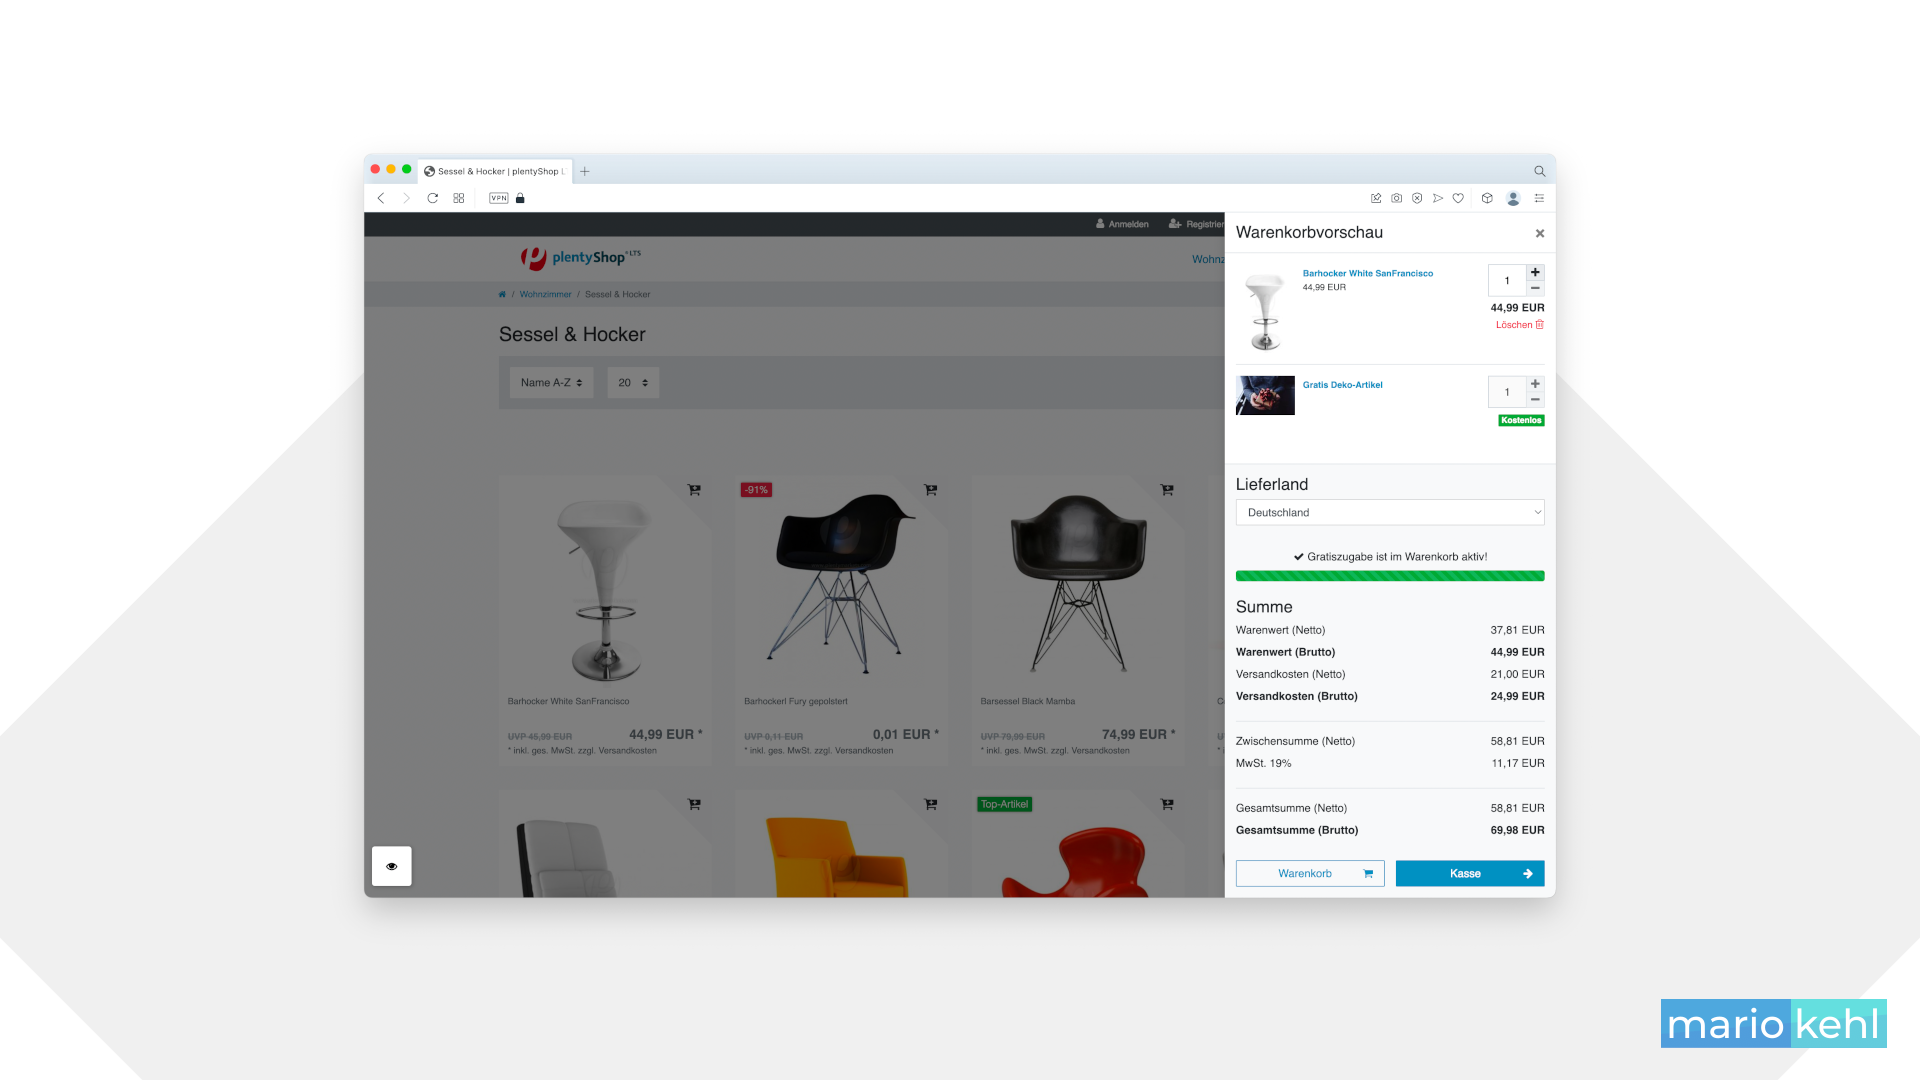
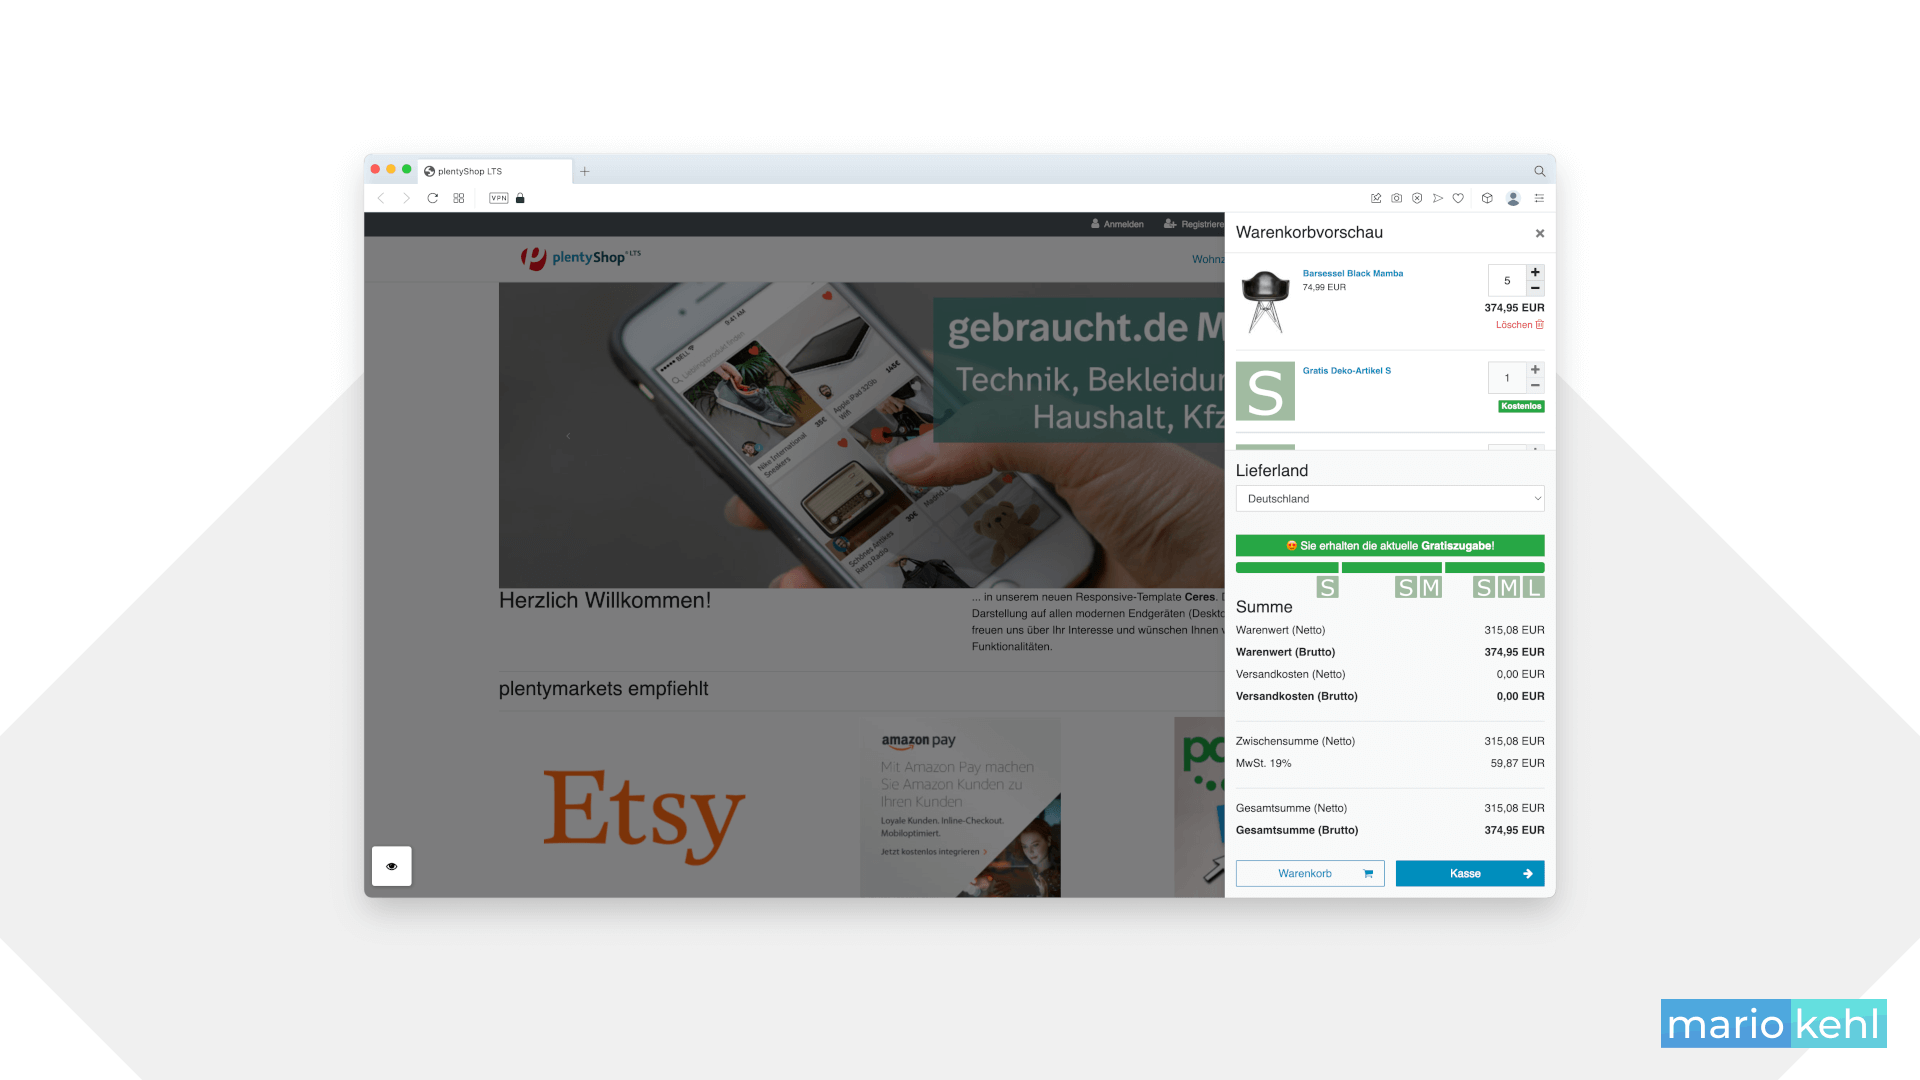
Bump version

diff --git a/meta/documents/user_guide_de.md b/meta/documents/user_guide_de.md
@@ -2,6 +2,17 @@
 
 Mit diesem Plugin ermöglichst du es deinen Kund:innen, ab einem bestimmten Warenkorbwert eine Gratiszugabe zu erhalten, die automatisch in den Warenkorb gelegt und auch dort angezeigt wird. Die Gratiszugabe kann als Variante angelegt und ab einem Warenkorbwert (Brutto) zugewiesen werden.
 
+## Features
+
+<i aria-hidden="true" class="fa fa-fw fa-check-square text-success"></i> Einfache Einrichtung<br>
+<i aria-hidden="true" class="fa fa-fw fa-check-square text-success"></i> Darstellung von Gratiszugaben in Warenkorb(-vorschau) und Kasse<br>
+<i aria-hidden="true" class="fa fa-fw fa-check-square text-success"></i> Auch mehrere Gratiszugaben in Abhängigkeit zu einer Preisstaffelung sind möglich<br>
+<i aria-hidden="true" class="fa fa-fw fa-check-square text-success"></i> Visualisierung des Fehlbetrags bis zum Erreichen der nächsten Gratiszugabe<br>
+<i aria-hidden="true" class="fa fa-fw fa-check-square text-success"></i> Individuelle und lokalisierbare Texte für Fehlbetrag und Erfolg<br>
+<i aria-hidden="true" class="fa fa-fw fa-check-square text-success"></i> Aussehen der Fortschrittsanzeige kann angepasst werden<br> 
+<i aria-hidden="true" class="fa fa-fw fa-check-square text-success"></i> Gutscheine werden in der Berechnung berücksichtigt<br>
+<i aria-hidden="true" class="fa fa-fw fa-check-square text-success"></i> Anzeige für Lieferländer ohne Gratiszugaben ausblenden
+
 ## Installationsanleitung
 
 Für die Anzeige der Gratiszugabe musst du die entsprechenden Werte in der Plugin-Konfiguration hinterlegen.
@@ -29,14 +40,60 @@ Danach die Container-Verknüpfungen anlegen, so dass die Gratiszugabe auch im Fr
 4. Verknüpfe den Inhalt **Display Progress Bar to reach Goodie** mit dem Container **Ceres::BasketPreview.BeforeBasketTotals** zur Anzeige in der Warenkorbvorschau (_Shopping cart preview: Before basket totals_)
 5. Verknüpfe den Inhalt **Display Progress Bar to reach Goodie** mit dem Container **Ceres::Checkout.BeforeBasketTotals** zur Anzeige in der Kasse (_Checkout: Before basket totals_)
 
+### Staffelung / Mehrere Gratiszugaben
+
+Ab sofort ist auch eine Staffelung nach Preisen und entsprechenden Gratiszugaben möglich. Nachstehend mal als einfaches Beispiel:
+ 
+    50 Euro   = Produkt A
+    100 Euro  = Produkt A + Produkt B
+    200 Euro  = Produkt A + Produkt B + Produkt C
+
+Hinterlege dazu in der Plugin-Konfiguration die entsprechenden Warenwerte und Varianten-IDs in den optionalen Bereichen **Staffel 1** und **Staffel 2**. Wenn du nur zwei Staffeln anbieten möchtest, so kannst du einfach die Eingabefelder für **Staffel 2** leer lassen. Eine Beispiel-Konfiguration für die maximale Ausprägung findest du in den Vorschaubildern des Plugins.
+
+<div class="alert alert-info" role="alert">
+    Vergiss nicht, die Filter deiner Ereignisaktion zum Hinzufügen der Gratiszugabe(n) ebenfalls auf die gewünschten Werte anzupassen!
+</div>
+
+### Lieferländer ohne Gratiszugaben ausschließen
+
+Bietest du in einem oder mehreren Lieferländern keine Gratiszugaben an, kannst du diese über die Plugin-Konfiguration ausschließen und somit die Ausgabe verhindern.
+
+Öffne dazu die Plugin-Konfiguration und trage im Bereich **Allgemein** im Feld **Ausgenommene Lieferländer** eine kommaseparierte Liste von verbotenen Lieferländern ein, z.B. _3,12_ für Belgien und United Kingdom.
+
+    1=Deutschland
+    2=Österreich
+    ...
+    
+Eine vollständige Liste aller Lieferland-IDs findest du unter **Einrichtung » Aufträge » Versand » Optionen** im Tab **Lieferländer**.
+
+<div class="alert alert-info" role="alert">
+    Vergiss nicht, die Filter deiner Ereignisaktion zum Hinzufügen der Gratiszugabe(n) ebenfalls auf die gewünschten Werte anzupassen!
+</div>
+
 ### Individualisierung
 
-| Einstellung                        | Beschreibung |
+Im Menü **CMS » Mehrsprachigkeit** kannst du die Texte unterhalb der Fortschrittsanzeige anpassen. **Speichere** nach der Anpassung und vergiss nicht auf **Veröffentlichen** zu drücken.
+
+| Schlüssel                          | Beschreibung  |
 |------------------------------------|---------------|
-| Nachricht Nichterreichen Warenwert | Text bei Nichterreichen des Warenkorbwert, folgende Platzhalter stehen zur Verfügung: `:amount` für den fehlenden Betrag und `:currency` für die Währung. |
-| Nachricht Warenwert erreicht       | Text bei Erreichen des Warenkorbwert, d.h. sobald die Gratiszugabe hinzugefügt ist |
+| MessageMissing | Text bei Nichterreichen des Warenkorbwerts, folgende Platzhalter stehen zur Verfügung: `:amount` für den fehlenden Betrag und `:currency` für die Währung. |
+| MessageGoal | Text bei Erreichen des Warenkorbwerts, d.h. sobald die Gratiszugabe hinzugefügt ist |
+| MessageInterim | Text bis zum Erreichen der nächsten Gratiszugabe(n), nur relevant bei Staffelungen |
+| MessageAdditional | Text-Platzhalter zur Erklärung deiner Sonderaktion oder Bedingungen für die Gratiszugabe |
 
 Tabelle 1: Konfigurationsoptionen Individualisierung
+
+Das Aussehen der Fortschrittsanzeige lässt sich im Bereich **Individualisierung** in der **Plugin-Konfiguration** anpassen.
+
+| Einstellung                        | Beschreibung  |
+|------------------------------------|---------------|
+| CSS-Klasse für Fehlbetrag | Diese Bootstrap-Klasse erhält deine Fortschrittsanzeige und der Text als Hintergrundfarbe, solange die Gratiszugabe noch nicht hinzugefügt wurde.<br>Wähle Eigene um dies mit deinem Theme zu überschreiben. |
+| CSS-Klasse für Erfolg | Diese Bootstrap-Klasse erhält deine Fortschrittsanzeige und der Text als Hintergrundfarbe, sobald die Gratiszugabe hinzugefügt wurde.<br>Wähle Eigene um dies mit deinem Theme zu überschreiben. |
+| Textabstand vergrößern | Erlaubt den Abstand von Text zu Fortschrittsanzeige anzuheben. |
+| Fortschrittsanzeige gestreift | Fügt der Fortschrittsanzeige die Bootstrap-Klasse .progress-bar-striped hinzu. |
+| Vorschaubilder unter der Fortschrittsanzeige | Sollen Thumbnails der Gratiszugabe(n) als zusätzliche Information dargestellt werden? |
+
+Tabelle 2: Plugin-Konfiguration Individualisierung
 
 ### Ereignisaktion einrichten
 

diff --git a/meta/documents/user_guide_en.md b/meta/documents/user_guide_en.md
@@ -2,6 +2,17 @@
 
 With this plugin, you enable your customers to receive a free goodie from a certain shopping cart value, which is automatically placed in the shopping cart and also displayed there. The free goodie can be created as a variant and assigned from a shopping cart value (gross).
 
+## Features
+
+<i aria-hidden="true" class="fa fa-fw fa-check-square text-success"></i> Easy setup<br>
+<i aria-hidden="true" class="fa fa-fw fa-check-square text-success"></i> Display of free goodies in the shopping cart (preview) and checkout<br>
+<i aria-hidden="true" class="fa fa-fw fa-check-square text-success"></i> Several free goodies depending on a price scale are also possible<br>
+<i aria-hidden="true" class="fa fa-fw fa-check-square text-success"></i> Visualization of the threshold until the next free goodie is reached<br>
+<i aria-hidden="true" class="fa fa-fw fa-check-square text-success"></i> Individual and localizable texts for missing and success<br>
+<i aria-hidden="true" class="fa fa-fw fa-check-square text-success"></i> Appearance of the progress bar can be customized<br> 
+<i aria-hidden="true" class="fa fa-fw fa-check-square text-success"></i> Vouchers are taken into account in the calculation<br>
+<i aria-hidden="true" class="fa fa-fw fa-check-square text-success"></i> Hide display for delivery countries without goodies
+
 ## Installation Guide
 
 To display the free goodie, you must enter the appropriate values in the plugin configuration.
@@ -29,14 +40,60 @@ Then create the container links so that the free goodie is also displayed in the
 4. Associate the **Display Progress Bar to reach Goodie (Shopping Cart Preview)** content with the **Ceres::BasketPreview.BeforeBasketTotals** container for display in the shopping cart preview(_Shopping cart preview: Before basket totals_)
 5. Associate the **Display Progress Bar to reach Goodie (Checkout)** content with the **Ceres::Checkout.BeforeBasketTotals** container for display in the checkout (_Checkout: Before basket totals_)
 
+### Tiers / Multiple Goodies
+
+Grading according to prices and corresponding free gifts is now also possible. Below is a simple example:
+ 
+    50 Euro   = Product A
+    100 Euro  = Product A + Product B
+    200 Euro  = Product A + Product B + Product C
+
+To do this, store the corresponding goods values and variant IDs in the optional areas **Tier 1** and **Tier 2** in the plugin configuration. If you only want to offer two tiers, you can simply leave the input fields for **Tier 2** empty. You can find an example configuration for the maximum specification in the plugin preview images.
+
+<div class="alert alert-info" role="alert">
+    Don't forget to adjust the filters of your event action for adding the goodie(s) to the desired values as well!
+</div>
+
+### Exclude shipping countries without goodies
+
+If you do not offer any free gifts in one or more delivery countries, you can exclude them via the plugin configuration and thus prevent the output.
+
+To do this, open the plugin configuration and enter a comma-separated list of prohibited delivery countries in the **General** area in the **Excluded shipping countries** field, e.g. _3,12_ for Belgium and the United Kingdom.
+
+    1=Germany
+    2=Austria
+    ...
+    
+A complete list of all delivery country IDs can be found under **Setup » Orders » Shipping » Settings** in the **Shipping Countries** tab.
+
+<div class="alert alert-info" role="alert">
+    Don't forget to adjust the filters of your event action for adding the goodie(s) to the desired values as well!
+</div>
+
 ### Customization
 
-| Setting                            | Description |
-|------------------------------------|---------------|
-| Message value of goods not reached | Text if the shopping cart value is not reached, the following placeholders are available: `:amount` for the missing amount and `:currency` for the currency. |
-| Message Goods value reached        | Text when the shopping cart value is reached, i.e. as soon as the free goodie is added |
+In the **CMS » Multilingualism** menu, you can customize the texts below the progress bar. **Save** after customization and don't forget to press **Publish**.
 
-Tabelle 1: Configuration options customization
+| Key                                | Description   |
+|------------------------------------|---------------|
+| MessageMissing | Text if the shopping cart value is not reached, the following placeholders are available: `:amount` for the missing amount and `:currency` for the currency. |
+| MessageGoal | Text when the shopping cart value is reached, i.e. as soon as the free goodie is added |
+| MessageInterim | Text until the next free gift(s) is reached, only relevant for tiers |
+| MessageAdditional | Text placeholders to explain your promotion or freebie terms and conditions |
+
+Table 1: Configuration options customization
+
+The appearance of the progress bar can be customized in the **Individualization** area in the **Plugin configuration**.
+
+| Setting                            | Description   |
+|------------------------------------|---------------|
+| CSS class for missing | This bootstrap class will get your progress bar and text as the background color until the freebie is added.<br>Choose Custom to override this with your theme. |
+| CSS class for goal | This bootstrap class will get your progress bar and text as the background color once the freebie is added.<br>Choose Custom to override this with your theme. |
+| Increase text padding | Allows to increase the distance from text to progress bar. |
+| Progress bar striped | Adds the .progress-bar-striped bootstrap class to the progress bar |
+| Thumbnails below the progress bar | Should thumbnails of the free gift(s) be displayed as additional information? |
+
+Table 2: Plugin configuration Individualization
 
 ### Set up event procedure
 

diff --git a/meta/documents/changelog_de.md b/meta/documents/changelog_de.md
@@ -1,5 +1,13 @@
 # Versionshinweise für "Gratiszugabe im Warenkorb anzeigen"
 
+## v1.1.0 (09.01.2023)
+
+### Hinzugefügt
+- Es kann eine Staffelung von mehreren Gratiszugaben erfolgen, z.B. 50 Euro = Produkt A, 100 Euro = Produkt A + Produkt B, ... Du kannst bis zu 3 Staffeln verwenden
+- Du hast nun die Möglichkeit über die Plugin-Konfiguration einzelne Lieferländer vom kostenlosen Versand auszuschließen und die Fortschrittsanzeige somit zu verbergen
+- Das Aussehen der Fortschrittsanzeige erlaubt ab sofort vielfältige Individualisierungen: CSS-Klasse(n) für Fehlbetrag und Erfolg (legt die Hintergrundfarbe der Texte und der Fortschrittsanzeige fest), ggf. gestreifte Fortschrittsanzeige, Vorschaubilder + Tooltip der Gratiszugaben
+- Unterhalb der Fortschrittsanzeige wurde ein Text-Platzhalter für einen Link oder Erklärung eingebaut
+
 ## v1.0.6 (17.11.2022)
 
 ### Geändert

diff --git a/meta/documents/changelog_en.md b/meta/documents/changelog_en.md
@@ -1,5 +1,13 @@
 # Release Notes for "Show free goodie in shopping cart"
 
+## v1.1.0 (2023-01-09)
+
+### Added
+- Multiple free goodies can be scaled, e.g. 50 euros = product A, 100 euros = product A + product B, ... You can use up to 3 tiers
+- You now have the option of excluding individual shipping countries from goodies via the plugin configuration and thus hiding the progress bar
+- The appearance of the progress bar now allows a variety of customizations: CSS class(es) for missing and success (determines the background color of the texts and the progress bar), if necessary striped progress bar, preview images + tool tip of the goodies
+- A text placeholder for a link or explanation has been added below the progress bar
+
 ## v1.0.6 (2022-11-17)
 
 ### Changed
